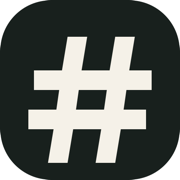
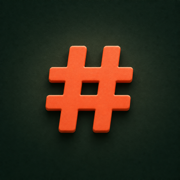
Polish IntoSharp sharing and app branding

diff --git a/index.html b/index.html
@@ -5,8 +5,25 @@
   <meta name="viewport" content="width=device-width, initial-scale=1">
   <meta name="theme-color" content="#f5f1e8">
   <meta name="description" content="검색과 자주 가는 사이트를 한 화면에 모은 intoSharp 시작 페이지">
+  <meta property="og:type" content="website">
+  <meta property="og:locale" content="ko_KR">
+  <meta property="og:site_name" content="인투샾">
+  <meta property="og:title" content="intoSharp — 시작">
+  <meta property="og:description" content="검색과 자주 가는 사이트를 한 화면에 모은 intoSharp 시작 페이지">
+  <meta property="og:url" content="https://intosharp.com/">
+  <meta property="og:image" content="https://intosharp.com/assets/intosharp-representative.png">
+  <meta property="og:image:width" content="1200">
+  <meta property="og:image:height" content="630">
+  <meta property="og:image:alt" content="코랄색 해시태그에서 검색과 바로가기 카드가 이어지는 인투샾 대표 이미지">
+  <meta name="twitter:card" content="summary_large_image">
+  <meta name="twitter:title" content="intoSharp — 시작">
+  <meta name="twitter:description" content="검색과 자주 가는 사이트를 한 화면에 모은 intoSharp 시작 페이지">
+  <meta name="twitter:image" content="https://intosharp.com/assets/intosharp-representative.png">
+  <link rel="canonical" href="https://intosharp.com/">
   <title>intoSharp — 시작</title>
-  <link rel="icon" href="favicon.svg" type="image/svg+xml">
+  <link rel="icon" href="favicon-32.png" type="image/png" sizes="32x32">
+  <link rel="apple-touch-icon" href="apple-touch-icon.png" sizes="180x180">
+  <link rel="manifest" href="manifest.json?v=20260819-1">
   <link rel="stylesheet" href="styles.css">
 </head>
 <body>

diff --git a/sw.js b/sw.js
@@ -1,14 +1,15 @@
-const CACHE_NAME = 'intosh-shell-20260816-17';
+const CACHE_NAME = 'intosh-shell-20260819-18';
 const SHELL_FILES = [
   '/',
-  '/favicon.svg',
+  '/favicon-32.png',
   '/apple-touch-icon.png',
   '/icon-192.png',
   '/icon-512.png',
+  '/assets/intosharp-representative.png',
   '/legacy-catalog.js?v=20260816-3',
   '/admin.js?v=20260816-20',
   '/modern.js?v=20260816-1',
-  '/manifest.json?v=20260816-2',
+  '/manifest.json?v=20260819-1',
 ];
 
 self.addEventListener('install', event => {

diff --git a/index.php b/index.php
@@ -9,9 +9,24 @@
   <meta name="apple-mobile-web-app-capable" content="yes">
   <meta name="apple-mobile-web-app-status-bar-style" content="default">
   <meta name="description" content="주소 대신 이름으로 이어지는 인투샾 첫 화면">
-  <link rel="icon" href="/favicon.svg" type="image/svg+xml" sizes="any">
+  <meta property="og:type" content="website">
+  <meta property="og:locale" content="ko_KR">
+  <meta property="og:site_name" content="인투샾">
+  <meta property="og:title" content="#인투샾 — 이름으로 여는 첫 화면">
+  <meta property="og:description" content="주소 대신 이름으로 이어지는 인투샾 첫 화면">
+  <meta property="og:url" content="https://intosharp.com/">
+  <meta property="og:image" content="https://intosharp.com/assets/intosharp-representative.png">
+  <meta property="og:image:width" content="1200">
+  <meta property="og:image:height" content="630">
+  <meta property="og:image:alt" content="코랄색 해시태그에서 검색과 바로가기 카드가 이어지는 인투샾 대표 이미지">
+  <meta name="twitter:card" content="summary_large_image">
+  <meta name="twitter:title" content="#인투샾 — 이름으로 여는 첫 화면">
+  <meta name="twitter:description" content="주소 대신 이름으로 이어지는 인투샾 첫 화면">
+  <meta name="twitter:image" content="https://intosharp.com/assets/intosharp-representative.png">
+  <link rel="canonical" href="https://intosharp.com/">
+  <link rel="icon" href="/favicon-32.png" type="image/png" sizes="32x32">
   <link rel="apple-touch-icon" href="/apple-touch-icon.png" sizes="180x180">
-  <link rel="manifest" href="/manifest.json?v=20260816-2">
+  <link rel="manifest" href="/manifest.json?v=20260819-1">
   <title>#인투샾 — 이름으로 여는 첫 화면</title>
   <style>
     :root {
@@ -202,6 +217,7 @@
 
     .cards { display: grid; grid-template-columns: repeat(2, minmax(0, 1fr)); gap: 18px; }
     .card {
+      min-width: 0;
       padding: 24px; border: 1px solid var(--line); border-radius: var(--radius);
       background: var(--card); box-shadow: 0 8px 30px rgba(58, 49, 36, .04);
       container-type: inline-size;

diff --git a/scripts/upload_preview.py b/scripts/upload_preview.py
@@ -20,9 +20,11 @@ UPLOADS = (
     (PROJECT_ROOT / "admin.js", "www/admin.js"),
     (PROJECT_ROOT / "admin-api.php", "www/admin-api.php"),
     (PROJECT_ROOT / "favicon.svg", "www/favicon.svg"),
+    (PROJECT_ROOT / "favicon-32.png", "www/favicon-32.png"),
     (PROJECT_ROOT / "apple-touch-icon.png", "www/apple-touch-icon.png"),
     (PROJECT_ROOT / "icon-192.png", "www/icon-192.png"),
     (PROJECT_ROOT / "icon-512.png", "www/icon-512.png"),
+    (PROJECT_ROOT / "assets" / "intosharp-representative.png", "www/assets/intosharp-representative.png"),
     (PROJECT_ROOT / "modern.js", "www/modern.js"),
     (PROJECT_ROOT / "sw.js", "www/sw.js"),
     (PROJECT_ROOT / "manifest.json", "www/manifest.json"),
@@ -56,6 +58,11 @@ def main() -> int:
 
     sftp = client.open_sftp()
     try:
+        try:
+            sftp.stat("www/assets")
+        except FileNotFoundError:
+            sftp.mkdir("www/assets")
+
         for local, remote in UPLOADS:
             temporary = f"{remote}.uploading"
             sftp.put(str(local), temporary)
